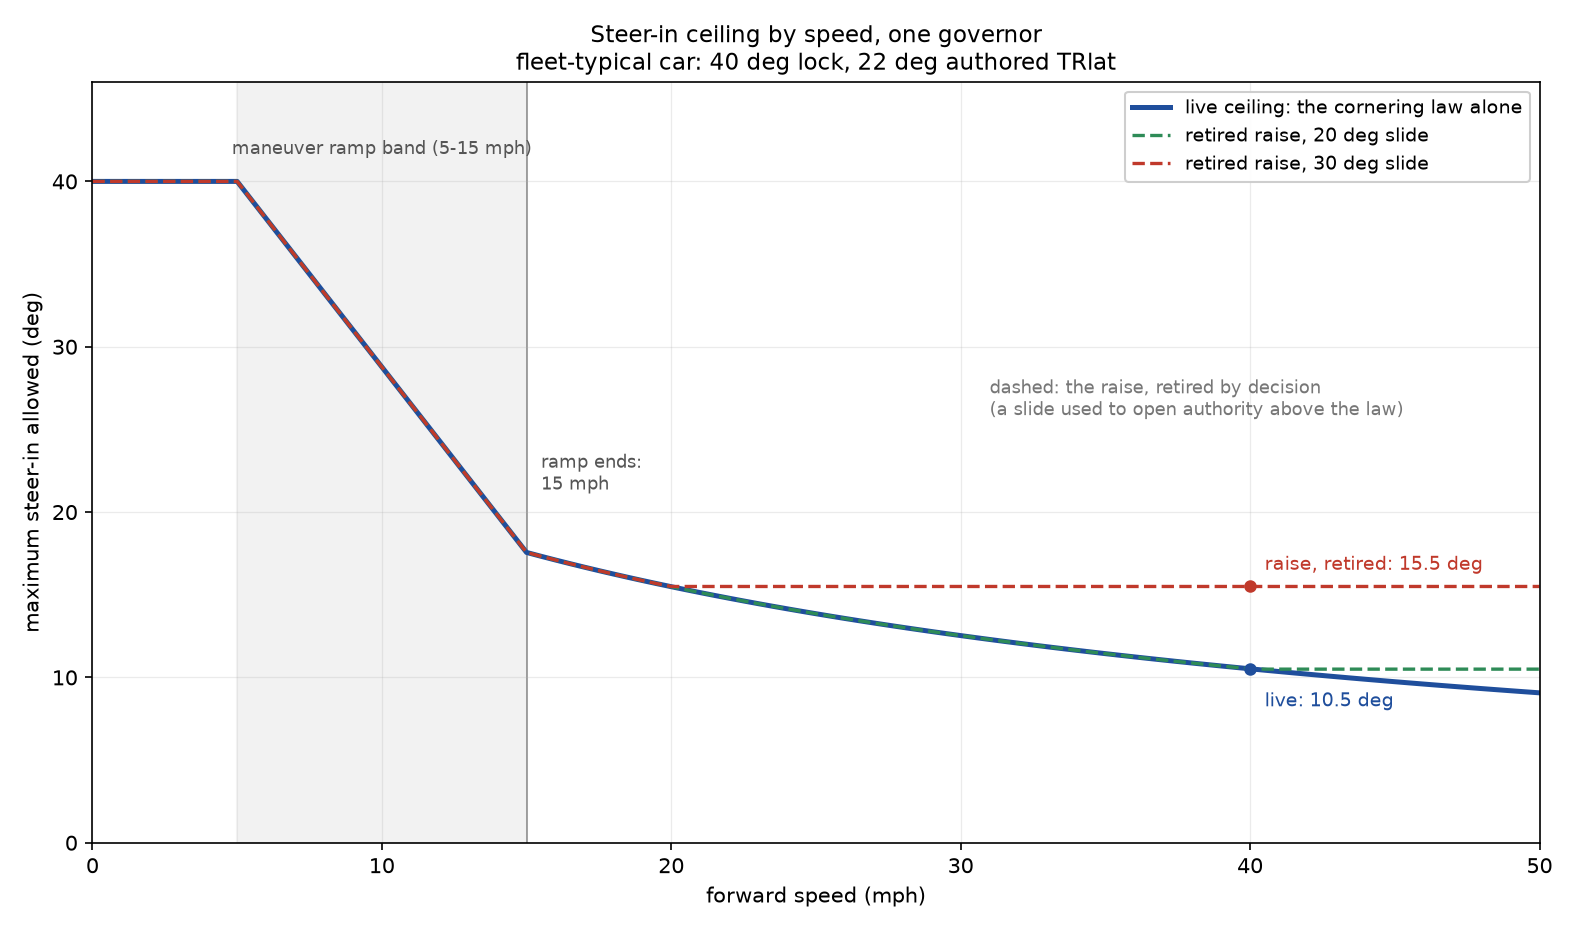
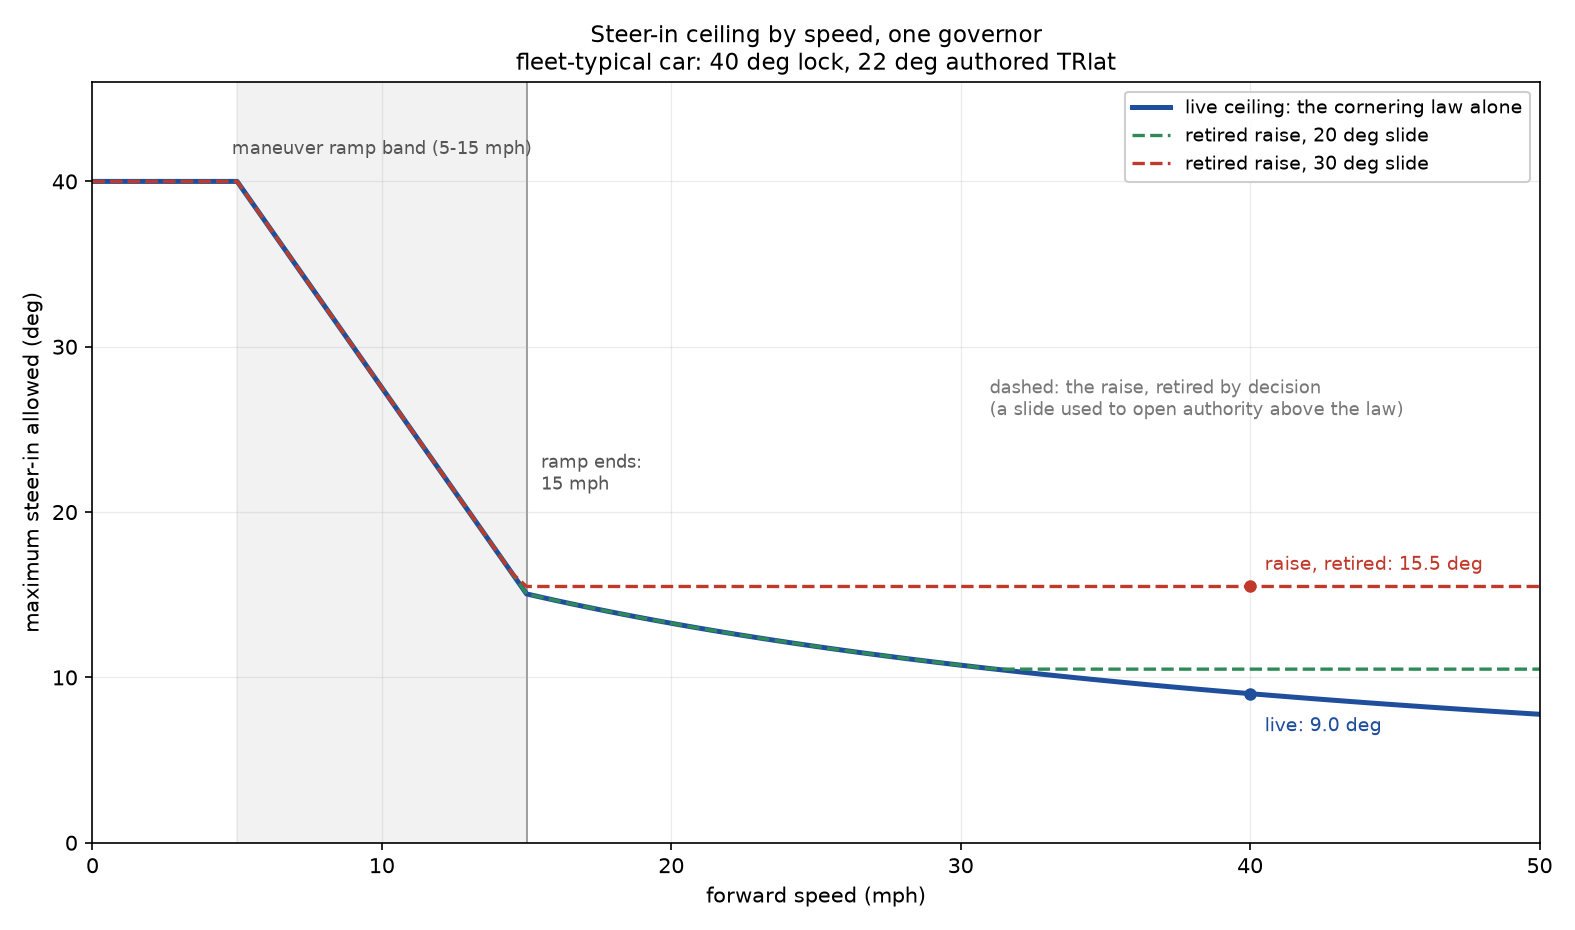
Steering: the peak-slip ceiling is stated at the front wheels' midpoint
The engine scales one front wheel to TEMP_STEER_WHEEL_MULT (0.75, CWheel::SetSteerAngle, wheel.cpp:6445) and
leaves the other at the command, so the old 1 / 0.75 landed the outer wheel on the peak slip angle. A
two-wheel model wants the axle angle instead: 2 / (1 + 0.75) puts the midpoint of the two front wheels on
the peak slip angle, which tightens the cap by 14% at every speed and every factor.

Steer Ceiling Factor 1.00 therefore now means what its menu text says. The at-speed corner-geometry term
is still not part of the live law; whether the ceiling should carry it is left open, and the geometry
fallback is untouched.

Compile-verified only, not yet driven; the drive is the last section of TEST-PLAN.md, and the plot is
regenerated from the same share.

diff --git a/src/Racer.cs b/src/Racer.cs
@@ -996,7 +996,10 @@ namespace ARS
         // Grip is read as a ratio to this reference, floored so a low-grip car cannot blow the coefficient up.
         const float SteerCapGripReference = 1f;
         const float SteerCapGripFloor = 0.5f;
-        const float PeakSlipOuterWheelCommandShare = 1f / 0.75f;
+        // The game scales one front wheel to this share of the command (TEMP_STEER_WHEEL_MULT, CWheel::SetSteerAngle,
+        // wheel.cpp:6445), so the axle angle the two-wheel model wants is the midpoint of the two front wheels.
+        const float EngineSteerWheelOuterShare = 0.75f;
+        const float PeakSlipMidpointCommandShare = 2f / (1f + EngineSteerWheelOuterShare);
         // Below the ramp's end speed the ceiling eases back to the car's full lock, so a slow car can steer in
         // fully; above it the ceiling is the law's own. The band is in mph because that is how it is judged.
         const float SteerLimitRampStartMph = 5f;
@@ -1053,7 +1056,7 @@ namespace ARS
 
         float PeakSlipCeilingAt(float peakSlipDeg)
         {
-            return ARS.Clamp(peakSlipDeg * PeakSlipOuterWheelCommandShare, 0f, VehicleData.SteeringLock);
+            return ARS.Clamp(peakSlipDeg * PeakSlipMidpointCommandShare, 0f, VehicleData.SteeringLock);
         }
 
         // The ceiling in force at this speed: the peak-slip cap, with the corner geometry as a fallback only when the

diff --git a/src/AutosportRacingSystem.cs b/src/AutosportRacingSystem.cs
@@ -1087,7 +1087,7 @@ namespace ARS
             aiMenu.Add(steerKDSpeedItem);
             HookListTextPicker(steerKDSpeedItem);
 
-            NativeListItem<string> steerCeilingFactorItem = new NativeListItem<string>("Steer Ceiling Factor", "Scales the ceiling the limiter computes from the tyre's at-speed peak slip. 1.00 is the law as computed; lower holds the wheel tighter at speed. The corner-geometry fallback is not scaled.", SettingsRepair.OptionsFor("SteerCeilingFactor"));
+            NativeListItem<string> steerCeilingFactorItem = new NativeListItem<string>("Steer Ceiling Factor", "Scales the ceiling the limiter computes from the tyre's at-speed peak slip. 1.00 puts the midpoint of the two front wheels on that peak slip angle; lower holds the wheel tighter at speed. The corner-geometry fallback is not scaled.", SettingsRepair.OptionsFor("SteerCeilingFactor"));
             steerCeilingFactorItem.ItemChanged += (sender, args) =>
             {
                 SteerCeilingFactor = float.Parse(steerCeilingFactorItem.Items[args.Index], CultureInfo.InvariantCulture);

diff --git a/docs/steer-ceiling.py b/docs/steer-ceiling.py
@@ -18,7 +18,10 @@ import matplotlib.pyplot as plt
 
 LOCK = 40.0
 TRLAT = 22.0
-PEAK_SHARE = 1.0 / 0.75
+# The engine scales one front wheel to this share of the steer command (TEMP_STEER_WHEEL_MULT, CWheel::SetSteerAngle,
+# wheel.cpp:6445), so the ceiling is stated at the midpoint of the two front wheels, as Racer.cs does.
+WHEEL_OUTER_SHARE = 0.75
+PEAK_SHARE = 2.0 / (1.0 + WHEEL_OUTER_SHARE)
 RAMP_START, RAMP_END = 5.0, 15.0
 SLIDE_SHARE = 0.5
 FREE_PLAY = 0.5

diff --git a/TEST-PLAN.md b/TEST-PLAN.md
@@ -386,3 +386,11 @@ The ceiling law is plotted in `docs/steer-ceiling.png`, regenerated with the nar
 3. **Off-track halves it, and nothing else moves it** — the threshold is the setting on every surface and at every speed now: the surface-grip scaling is gone (it tightened the regulation where grip was scarce, tracking the lower peak slip a loose surface has, and it went for simplicity) and so is the launch ramp. The off-track half is the only modulation left, and the surface no longer reads into the value at all. Expect the cars to be a shade more permissive than before wherever grip is scarce and off the line — 0.5 everywhere, where the old law gave more slip at launch and less on dirt. A launch allowance, as a setting or a per-racer personality, is filed as `launch-slip-allowance`.
 4. **ABS** — the same shape with no knobs: the cut still starts at the knee and floors at mingrip, which are the traction curve's own numbers.
 5. **The menu and the file** — both items sit under TCS in AI Settings, and their keys appear in `Menu-Settings.ini` on the first load after this build; `Log.log` must hold no "declares no key" line, and both values must survive a reload.
+
+## The ceiling's reference is the wheel midpoint (not driven)
+
+The peak-slip ceiling was stated at the *outer* front wheel. The engine scales one front wheel to `TEMP_STEER_WHEEL_MULT` (`wheel.cpp:6445`, `CWheel::SetSteerAngle`) and leaves the other at the command, and the ceiling divided the peak slip by that 0.75 so the outer wheel landed on it. A two-wheel model wants the *axle* angle, which is the midpoint of the two — `2 / (1 + 0.75)` — so the ceiling is that now (`PeakSlipMidpointCommandShare`, `Racer.cs`), and the menu says what 1.00 means.
+
+1. **The size of the change.** The cap is a flat 14% tighter at every speed and every factor, so the new 1.00 sits between the old 1.00 and the old 0.75. Judge the drive against that bracketing, not against a setting that reproduces 488 exactly.
+2. **The tight stuff.** The tightened cap bites hardest above the ramp's end speed, where the ramp no longer reaches: watch a slow corner for a car that cannot place itself, or that turns in more lazily than it did.
+3. **The item and the file.** The description now names what 1.00 means; confirm it shows, the value survives a reload, and `Log.log` holds no "declares no key" line after a load.
